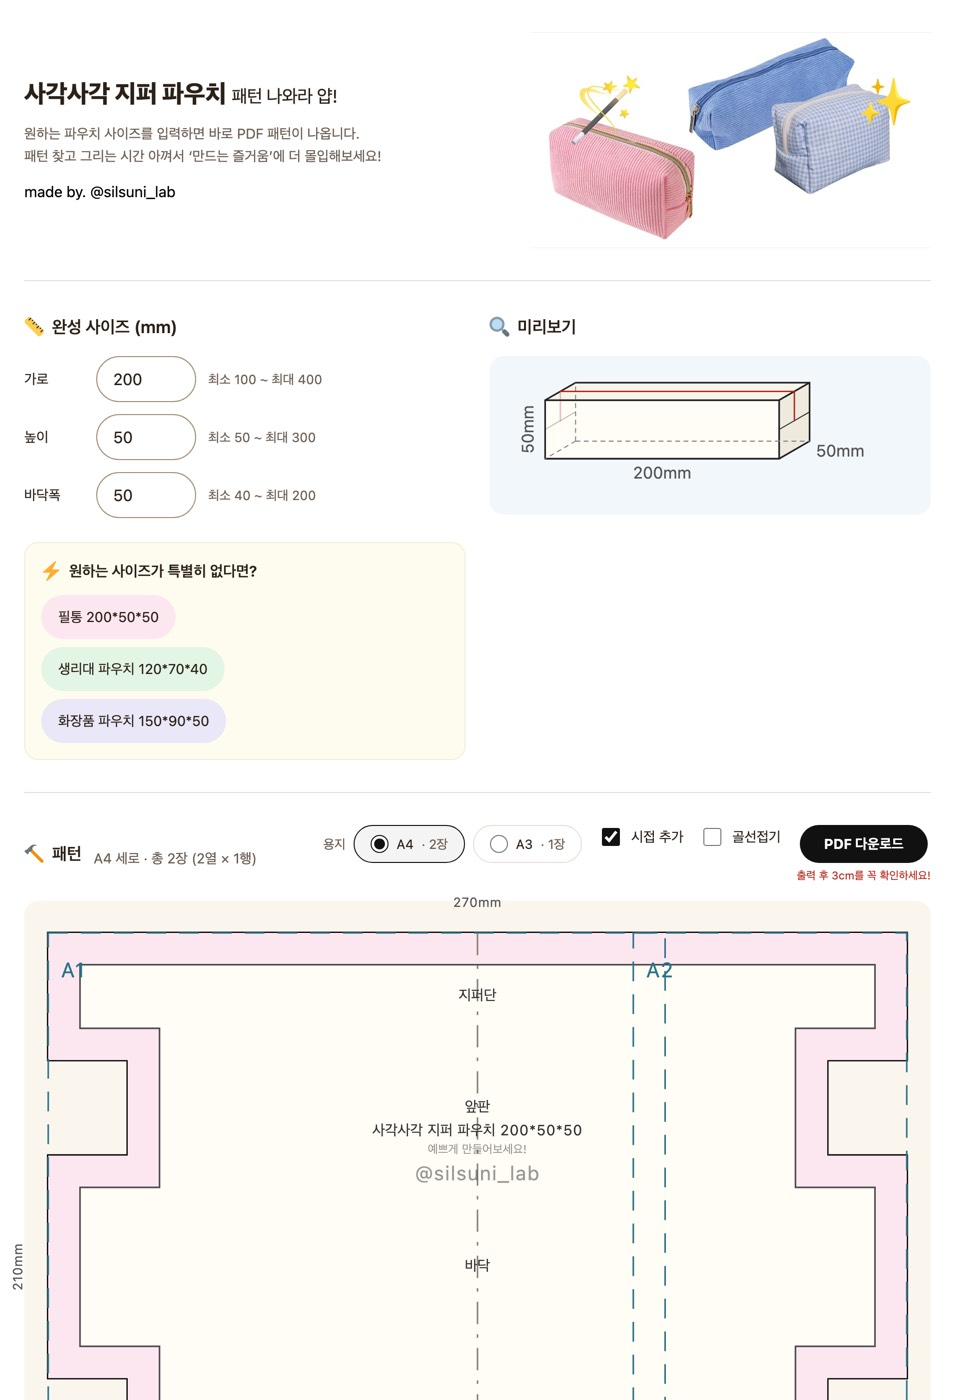
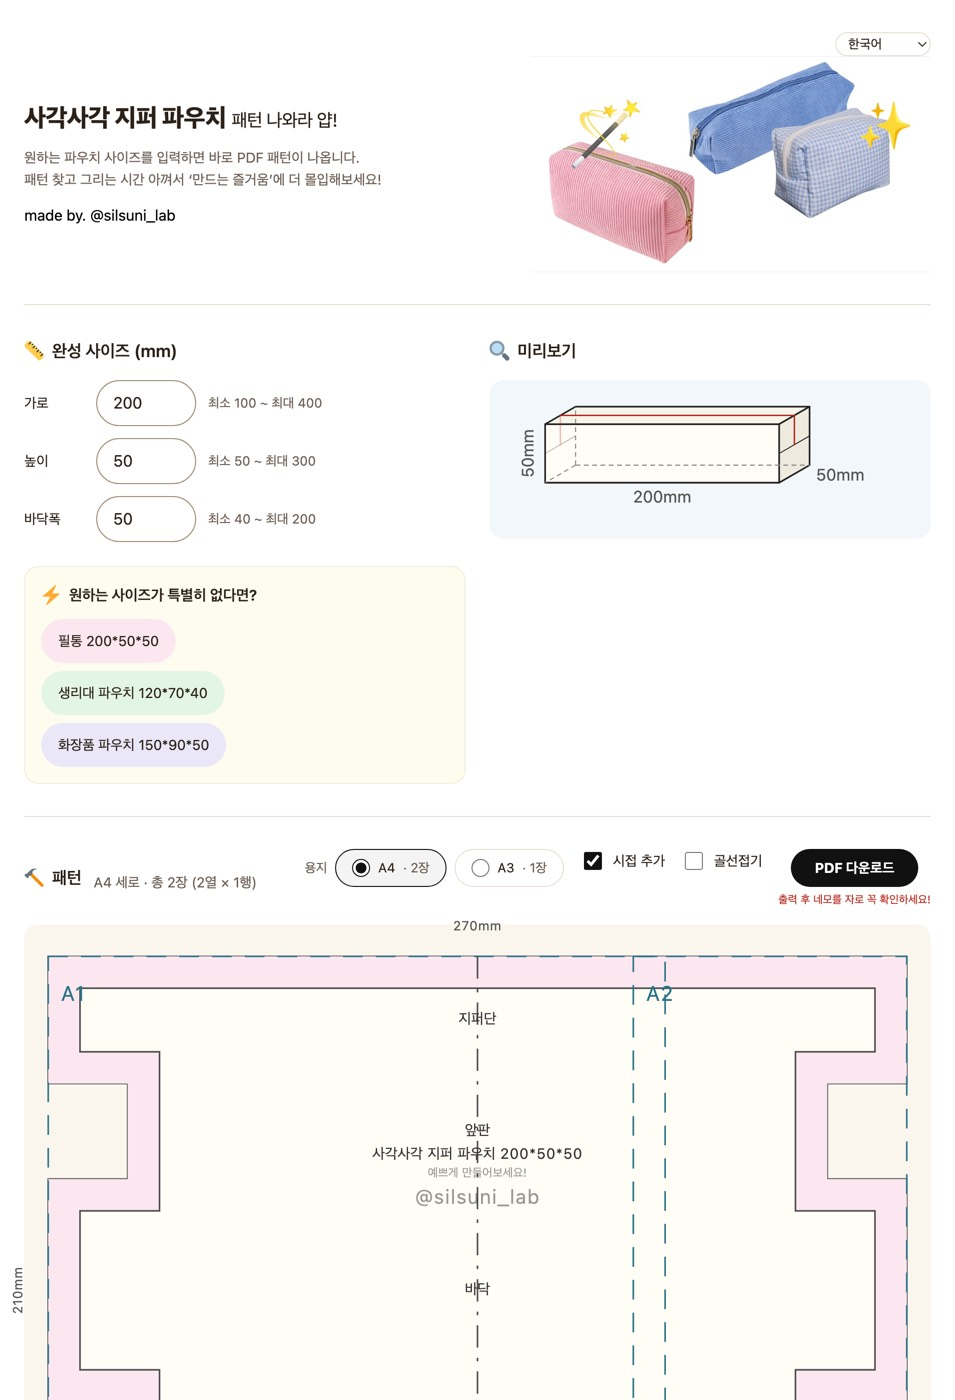
미리보기의 도안 선을 한 색 한 두께로 긋기
사각 파우치 미리보기에서 재단선·완성선·중앙선이 색도 두께도 제각각이었다.
검정 굵은 선, 진회색 얇은 선, 베이지 일점쇄선 셋이 한 화면에 있어 도면이
얼룩덜룩했다. 셋을 진회색 얇은 선 하나로 맞춘다.

색을 안 나눠도 되는 근거가 화면에는 있다. 재단선과 완성선 사이는 시접 띠가
분홍으로 차 있어 바깥이 재단선, 안쪽이 완성선임이 드러나고, 중앙선은
일점쇄선이라 실선과 섞이지 않는다. 띠를 없애면 이 근거가 무너지므로 띠는
그대로 둔다.

인쇄는 그대로다. 종이에는 띠를 칠하지 않아 색이 유일한 단서다. colors.ts를
만든 까닭이 "같은 선이 매체마다 다른 색이 되는 사고"를 막으려던 것이라,
여기가 사고가 아니라 결정이라는 걸 PREVIEW_LINE_COLOR 주석에 적어 두었다.
그 상수를 화면 쪽에서만 꺼내 쓰므로 CUT_COLOR·CENTER_COLOR는 이제 PDF
전용이 된다.

원통에는 쓰지 않는다. 원통은 시접 띠도 중앙선도 없어 재단선과 완성선을
가를 것이 색과 두께뿐이다. 거기서 합치면 어느 선을 잘라야 하는지 알 수
없게 된다. 같은 이유를 상수 주석에도 적었다.

골선은 굵게 남긴다. 자르는 선으로 오인해 잘라 버리면 도안이 반쪽이 되므로
빨강에 더해 두께로도 가른다. CUT_STROKE_RATIO가 이제 골선에만 쓰이므로
이름이 사실과 어긋나 FOLD_EDGE_STROKE_RATIO로 고치고, 계산에 끼어 있던
`* 1.2`를 상수 값에 녹였다.

범례 견본도 함께 맞췄다. .swatch-cut이 2px로 남아 있으면 도면에는 없는
두께 차이를 범례가 있다고 말하게 된다. 색은 이미 legendItems가 그리는
쪽 상수에서 가져오므로 저절로 따라왔다.

테스트 하나가 옛 결정(완성선이 재단선보다 얇다)을 못박고 있어 새 결정으로
바꾸고, 그 결정이 서는 조건을 함께 검사한다 — 셋의 색·두께가 같은지, 둘을
가르는 시접 띠가 실제로 그려지는지, 중앙선이 점선으로만 갈리는지, 골선만
굵게 남는지.

README의 "선마다 제 색과 점선을 갖는다"는 줄이 화면에는 더 이상 맞지 않아
인쇄 이야기임을 밝히고 화면이 어떻게 다른지 적었다. 화면이 바뀌었으므로
screenshot.jpg도 다시 찍었다.

Claude-Session: https://claude.ai/code/session_017eAgpg8sb2QR2GtxX5zMHr

diff --git a/src/ui/preview.ts b/src/ui/preview.ts
@@ -12,14 +12,12 @@ import {
 } from '../core/dimensions';
 import {
   BAND_LABEL_COLOR,
-  CENTER_COLOR,
-  CUT_COLOR,
   DIM_LABEL_COLOR,
   FOLD_EDGE_COLOR,
   PATTERN_FILL,
   PATTERN_TITLE_COLOR,
+  PREVIEW_LINE_COLOR,
   SEAM_BAND_FILL,
-  SEAM_COLOR,
   TILE_COLOR,
 } from '../core/colors';
 
@@ -35,8 +33,12 @@ export function escapeXml(value: string): string {
  * 선 두께와 글자 크기는 도안 폭에 비례시킨다. mm 고정값으로 두면 작은 도안에서
  * 선이 굵고 글자가 커 보이고, 큰 도안에서는 반대가 된다. 화면에서 SVG 폭이
  * 컨테이너에 맞춰지므로 도안 폭이 곧 표시 배율이다.
+ *
+ * 도안 선(재단선·완성선·중앙선)은 THIN 하나로 나간다 — 까닭은 colors.ts의
+ * PREVIEW_LINE_COLOR에 적었다. 굵은 쪽은 골선에만 남는다. 자르는 선으로 오인해
+ * 잘라 버리면 도안이 반쪽이 되므로, 색(빨강)에 더해 두께로도 갈라 놓는다.
  */
-const CUT_STROKE_RATIO = 0.003;
+const FOLD_EDGE_STROKE_RATIO = 0.0036;
 const THIN_STROKE_RATIO = 0.002;
 const BAND_LABEL_RATIO = 0.017;
 const DIM_LABEL_RATIO = 0.015;
@@ -75,7 +77,7 @@ export function renderPreviewSvg(layout: Layout, pagination: Pagination, locale:
   const w = layout.totalWidthMm;
   const h = layout.totalHeightMm;
 
-  const cutStroke = round1(w * CUT_STROKE_RATIO);
+  const foldEdgeStroke = round1(w * FOLD_EDGE_STROKE_RATIO);
   const thinStroke = round1(w * THIN_STROKE_RATIO);
   const bandLabelSize = round1(w * BAND_LABEL_RATIO);
   const dimLabelSize = round1(w * DIM_LABEL_RATIO);
@@ -114,7 +116,7 @@ export function renderPreviewSvg(layout: Layout, pagination: Pagination, locale:
 
   const seamLine = !hasSeam
     ? ''
-    : `<polygon class="seam-line" points="${toPolygonPoints(layout.seamLineMm)}" fill="none" stroke="${SEAM_COLOR}" stroke-width="${thinStroke}" />`;
+    : `<polygon class="seam-line" points="${toPolygonPoints(layout.seamLineMm)}" fill="none" stroke="${PREVIEW_LINE_COLOR}" stroke-width="${thinStroke}" />`;
 
   /*
    * 접힘선(layout.foldLinesMm)은 화면에 그리지 않는다. 빠뜨린 게 아니라
@@ -135,13 +137,13 @@ export function renderPreviewSvg(layout: Layout, pagination: Pagination, locale:
 
   /*
    * 세로 중앙선. 앞판·바닥의 가로 한가운데라 원단에 올릴 때 기준이 된다.
-   * 선 종류가 이미 여럿이라 제도에서 중심선에 쓰는 일점쇄선으로 긋는다.
-   * 모양만으로 갈리므로 색은 눈에 띄지 않는 회색이면 된다.
+   * 제도에서 중심선에 쓰는 일점쇄선으로 긋는다. 화면에서는 재단선·완성선과
+   * 색도 두께도 같으므로, 이 선을 갈라 주는 것은 오직 이 점선 모양뿐이다.
    */
   const centerLine =
     `<line class="center-line" x1="${round1(centerXMm(layout))}" y1="0"` +
     ` x2="${round1(centerXMm(layout))}" y2="${round1(h)}"` +
-    ` stroke="${CENTER_COLOR}" stroke-width="${thinStroke}"` +
+    ` stroke="${PREVIEW_LINE_COLOR}" stroke-width="${thinStroke}"` +
     ` stroke-dasharray="${dash(0.026, 0.012)} ${dash(0.004, 0.012)}" />`;
 
   /*
@@ -165,7 +167,7 @@ export function renderPreviewSvg(layout: Layout, pagination: Pagination, locale:
 
     return `<line class="fold-edge" x1="0" y1="${round1(yMm)}"` +
       ` x2="${round1(w)}" y2="${round1(yMm)}"` +
-      ` stroke="${FOLD_EDGE_COLOR}" stroke-width="${round1(cutStroke * 1.2)}" />` + arcs;
+      ` stroke="${FOLD_EDGE_COLOR}" stroke-width="${foldEdgeStroke}" />` + arcs;
   })();
 
   /*
@@ -208,7 +210,7 @@ export function renderPreviewSvg(layout: Layout, pagination: Pagination, locale:
     // WebKit의 0폭 계산도 우연히 비켜 가 있었다. 폭을 직접 못 박아 우연에 기대지 않는다.
     ` style="overflow: visible; width: 100%; max-width: 100%; height: auto;" role="img"`,
     ` aria-label="${escapeXml(t(locale, 'preview.ariaLabel', round1(w), round1(h)))}">`,
-    `<polygon points="${points}" fill="${PATTERN_FILL}" stroke="${CUT_COLOR}" stroke-width="${cutStroke}" />`,
+    `<polygon points="${points}" fill="${PATTERN_FILL}" stroke="${PREVIEW_LINE_COLOR}" stroke-width="${thinStroke}" />`,
     seamBand,
     seamLine,
     // 페이지 경계는 도안 위에 얹어야 보인다. 도안 채움이 불투명해서
@@ -246,20 +248,20 @@ export interface LegendItem {
  */
 export function legendItems(layout: Layout, locale: Locale): readonly LegendItem[] {
   const items: LegendItem[] = [
-    { swatch: 'swatch-cut', color: CUT_COLOR, text: t(locale, 'legend.cutLine') },
+    { swatch: 'swatch-cut', color: PREVIEW_LINE_COLOR, text: t(locale, 'legend.cutLine') },
   ];
 
   if (layout.seamMm > 0) {
-    items.push({ swatch: 'swatch-seam', color: SEAM_COLOR, text: t(locale, 'legend.stitchLine') });
+    items.push({ swatch: 'swatch-seam', color: PREVIEW_LINE_COLOR, text: t(locale, 'legend.stitchLine') });
     items.push({
       swatch: 'swatch-seam-band',
-      color: SEAM_COLOR,
+      color: PREVIEW_LINE_COLOR,
       fill: SEAM_BAND_FILL,
       text: t(locale, 'legend.seamAllowance', round1(layout.seamMm)),
     });
   }
 
-  items.push({ swatch: 'swatch-center', color: CENTER_COLOR, text: t(locale, 'legend.centerLine') });
+  items.push({ swatch: 'swatch-center', color: PREVIEW_LINE_COLOR, text: t(locale, 'legend.centerLine') });
 
   if (layout.foldEdgeYMm !== undefined) {
     items.push({

diff --git a/tests/preview.test.ts b/tests/preview.test.ts
@@ -47,12 +47,37 @@ describe('renderPreviewSvg', () => {
     expect(svg).not.toContain('class="fold-line"');
   });
 
-  it('완성선을 재단선보다 얇은 실선으로 그린다', () => {
-    const seam = svg.match(/class="seam-line"[^>]*stroke-width="([\d.]+)"/);
-    const cut = svg.match(/<polygon points="[^"]*"[^>]*stroke-width="([\d.]+)"/);
-    expect(Number(seam![1])).toBeLessThan(Number(cut![1]));
+  it('완성선을 재단선과 같은 색·같은 두께의 실선으로 그린다', () => {
+    /*
+     * 화면에서는 도안 선 셋(재단선·완성선·중앙선)을 한 색, 한 두께로 둔다.
+     * 둘을 갈라 주는 것은 사이를 채운 시접 띠다 — 바깥이 재단선, 안쪽이
+     * 완성선. 종이는 띠를 칠하지 않아 색으로 가르므로 PDF는 그대로다.
+     */
+    const seam = svg.match(/class="seam-line"[^>]*stroke="([^"]+)"[^>]*stroke-width="([\d.]+)"/)!;
+    const cut = svg.match(/<polygon points="[^"]*"[^>]*stroke="([^"]+)"[^>]*stroke-width="([\d.]+)"/)!;
+    expect(seam[1]).toBe(cut[1]);
+    expect(Number(seam[2])).toBe(Number(cut[2]));
+    // 둘을 가르는 시접 띠가 실제로 그려져 있어야 이 결정이 성립한다.
+    expect(svg).toContain('class="seam-band"');
     // 실선이므로 점선 지정이 없어야 한다.
     expect(svg).not.toMatch(/class="seam-line"[^>]*stroke-dasharray/);
+  });
+
+  it('중앙선도 같은 색·두께이고 일점쇄선으로만 갈린다', () => {
+    const center = svg.match(/class="center-line"[^>]*stroke="([^"]+)"[^>]*stroke-width="([\d.]+)"/)!;
+    const cut = svg.match(/<polygon points="[^"]*"[^>]*stroke="([^"]+)"[^>]*stroke-width="([\d.]+)"/)!;
+    expect(center[1]).toBe(cut[1]);
+    expect(Number(center[2])).toBe(Number(cut[2]));
+    expect(svg).toMatch(/class="center-line"[^>]*stroke-dasharray/);
+  });
+
+  it('골선만 도안 선보다 굵게 남는다', () => {
+    // 자르는 선으로 오인하면 도안이 반쪽이 된다. 색과 두께로 함께 가른다.
+    const half = halveOnFold(buildLayout({ widthMm: 270, heightMm: 140, depthMm: 100 }));
+    const halfSvg = renderPreviewSvg(half, paginate(half, 'a4'), 'ko');
+    const fold = Number(halfSvg.match(/class="fold-edge"[^>]*stroke-width="([\d.]+)"/)![1]);
+    const cut = Number(halfSvg.match(/<polygon points="[^"]*"[^>]*stroke-width="([\d.]+)"/)![1]);
+    expect(fold).toBeGreaterThan(cut);
   });
 });
 

diff --git a/src/core/colors.ts b/src/core/colors.ts
@@ -47,6 +47,25 @@ export const PATTERN_TITLE_COLOR = '#333333';
 /* ─── 전개도 미리보기 (화면 전용) ────────────────────────────────── */
 
 /**
+ * 미리보기의 도안 선. 재단선·완성선·중앙선이 이 색 하나에 같은 두께로 나간다.
+ *
+ * 인쇄는 셋을 색으로 가른다(CUT_COLOR·SEAM_COLOR·CENTER_COLOR). 화면만
+ * 합치는 것이라 이 파일에서 화면과 인쇄가 일부러 갈라지는 유일한 자리다.
+ * colors.ts를 만든 까닭이 "같은 선이 매체마다 다른 색이 되는 사고"를 막으려던
+ * 것이므로, 여기가 사고가 아니라 결정이라는 걸 적어 둔다.
+ *
+ * 화면에서 색을 안 나눠도 되는 근거는 다른 단서가 이미 있기 때문이다.
+ * 재단선과 완성선 사이는 시접 띠(SEAM_BAND_FILL)가 분홍으로 차 있어 바깥이
+ * 재단선, 안쪽이 완성선임이 드러나고, 중앙선은 일점쇄선이라 실선과 섞이지
+ * 않는다. 종이는 사정이 다르다 — 띠를 칠하지 않으므로 색이 유일한 단서다.
+ *
+ * 그래서 이 상수를 원통 미리보기에는 쓰지 않는다. 원통은 시접 띠도 중앙선도
+ * 없어 재단선과 완성선을 가를 것이 색과 두께뿐이다. 거기서 합치면 어느 선을
+ * 잘라야 하는지 알 수 없게 된다.
+ */
+export const PREVIEW_LINE_COLOR = SEAM_COLOR;
+
+/**
  * 인쇄 페이지 경계와 칸 번호. 화면 요약줄(--info)과 같은 청록 계열이라
  * "페이지"라는 개념이 한 색으로 묶인다. 회색으로 두면 다른 선과 헷갈린다.
  * 배경(--tint-pattern) 위에서 4.99:1 — 선(3:1)과 글자(4.5:1) 기준을 넘는다.

diff --git a/src/style.css b/src/style.css
@@ -340,8 +340,14 @@ body {
  * 적어 두고 손으로 맞췄는데, 한쪽만 고치면 범례가 도면과 다른 색을
  * 가리켰다.
  */
+/*
+ * 견본은 도면에 그린 그대로여야 한다. 재단선·완성선·중앙선은 도면에서 색도
+ * 두께도 같으므로(colors.ts의 PREVIEW_LINE_COLOR) 견본도 같은 1px로 둔다.
+ * 재단선만 굵게 두면 범례가 도면에 없는 차이를 있다고 말하게 된다.
+ * 중앙선은 도면과 같이 점선 모양으로만 갈리고, 골선은 실제로 굵으므로 굵다.
+ */
 .swatch { flex: none; width: 26px; height: 0; border-top-style: solid; }
-.swatch-cut { border-top-width: 2px; }
+.swatch-cut { border-top-width: 1px; }
 .swatch-seam { border-top-width: 1px; }
 .swatch-tile { border-top-width: 2px; border-top-style: dashed; }
 .swatch-center { border-top-width: 1px; border-top-style: dashed; }
